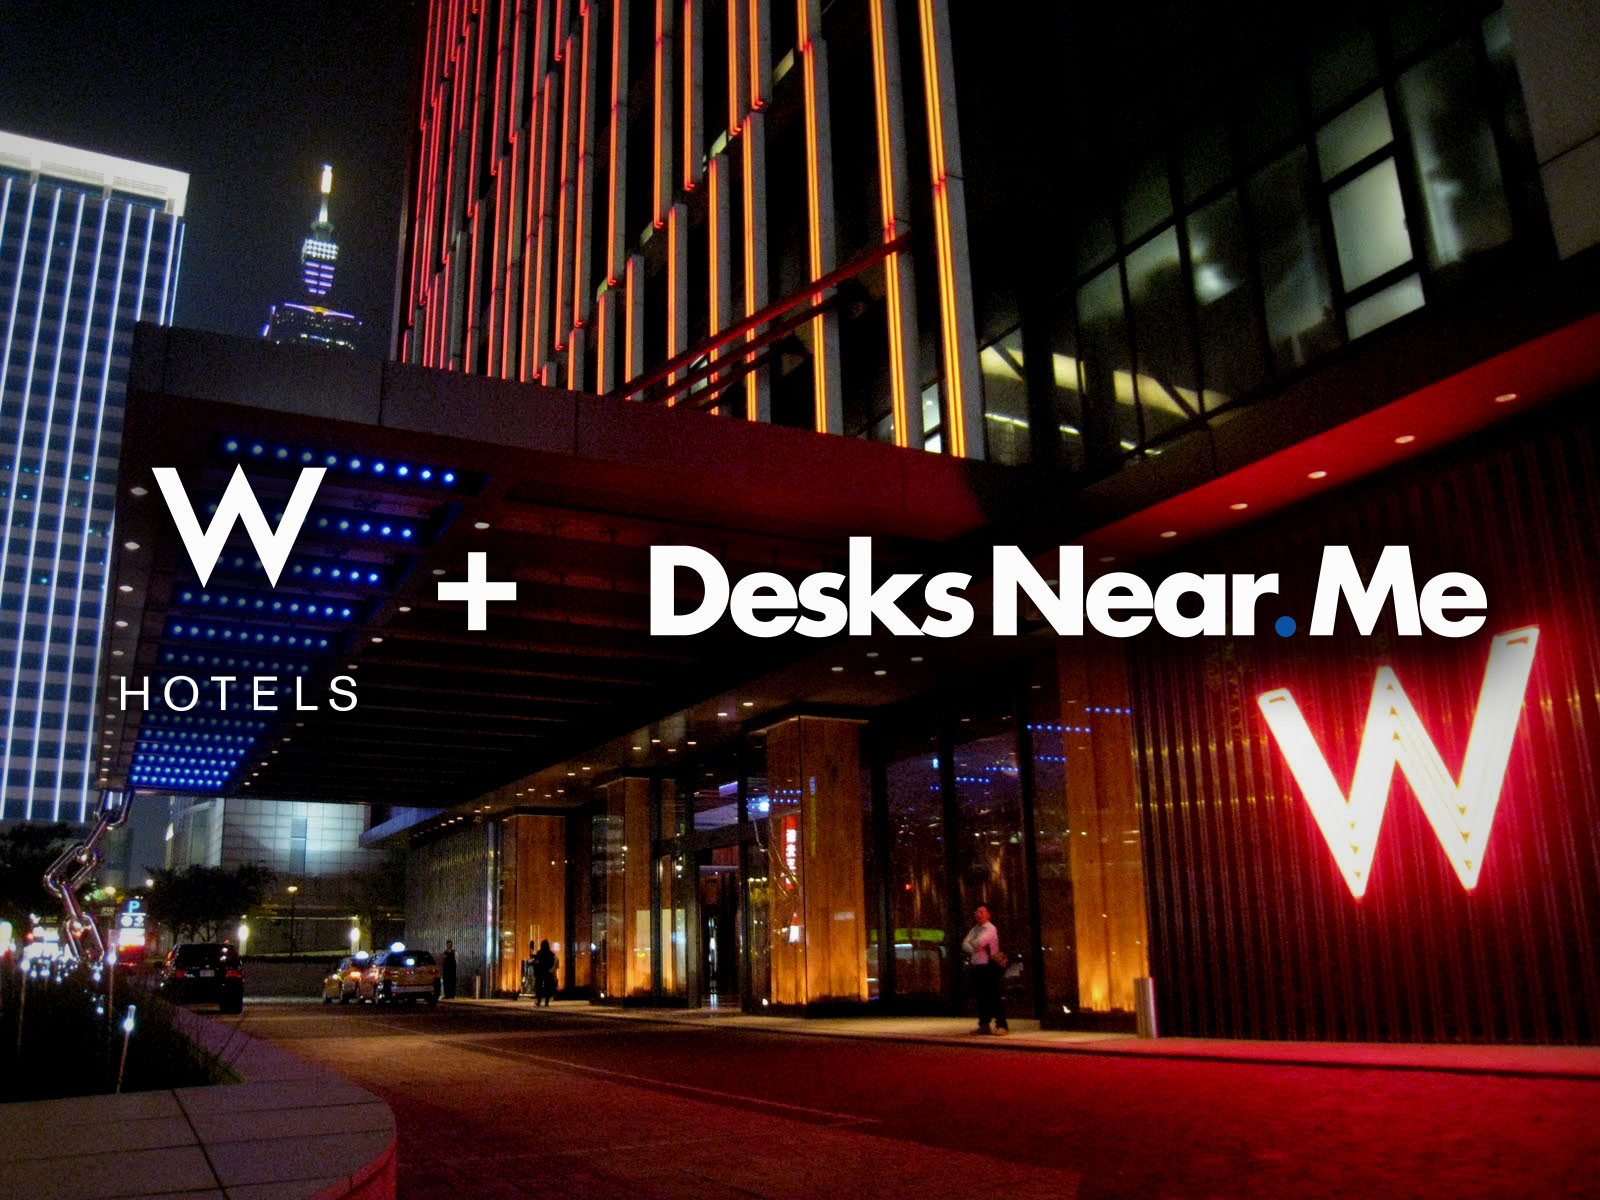
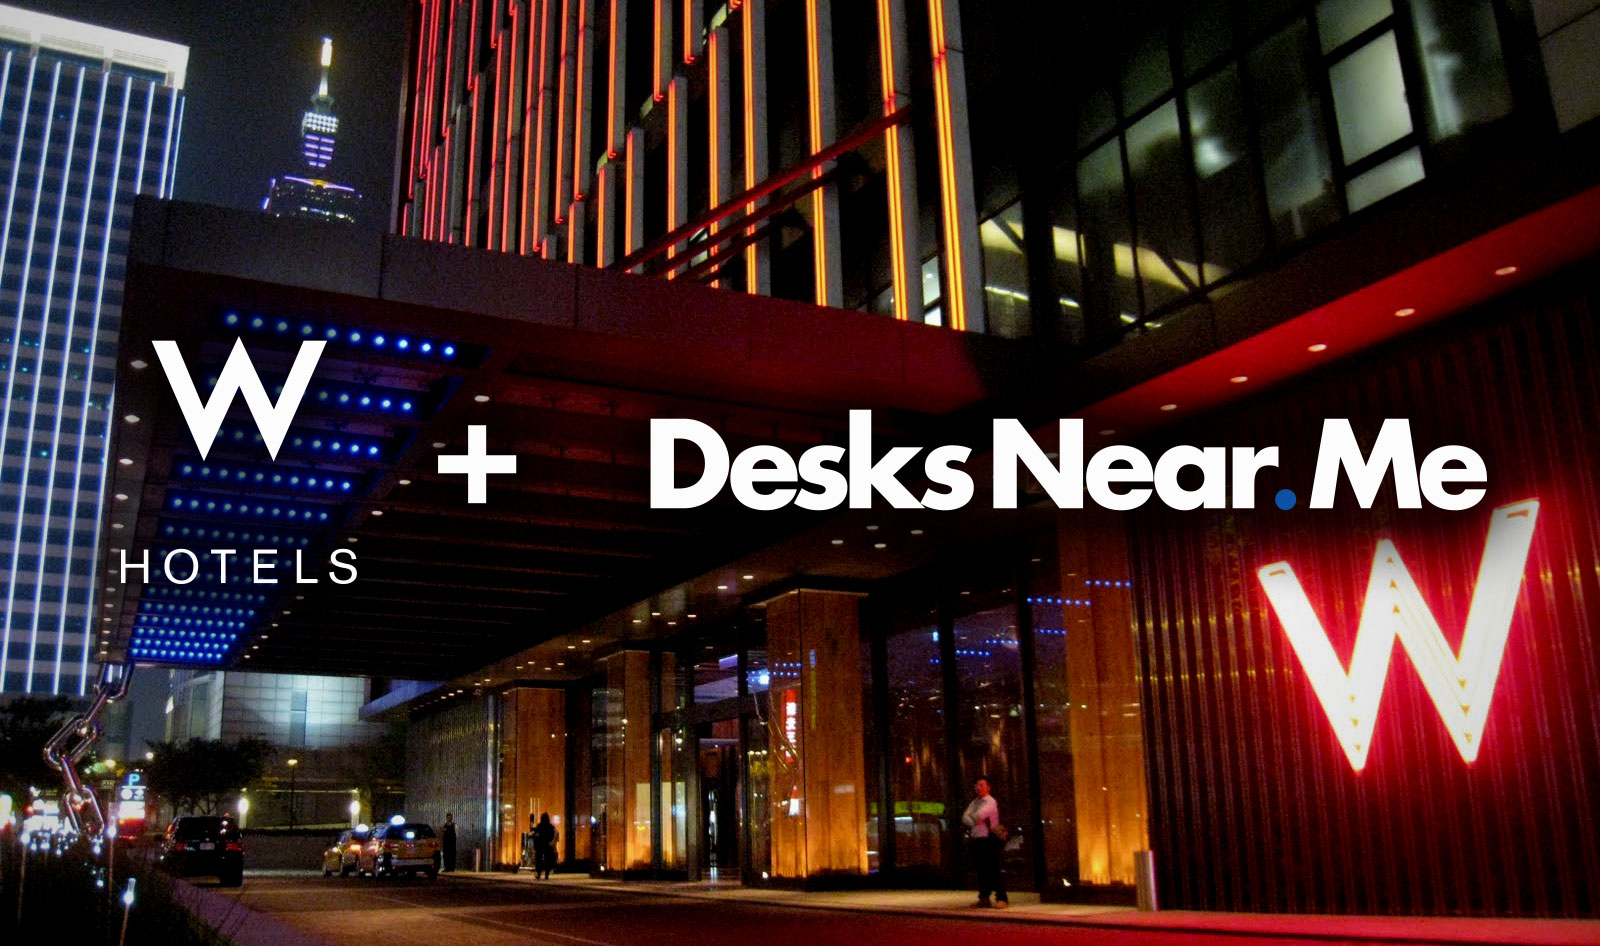
formatting, layout changes

diff --git a/app/assets/stylesheets/application.css.scss b/app/assets/stylesheets/application.css.scss
@@ -4,6 +4,7 @@
 @import "compass/reset";
 @import "chosen";
 @import "layout/*";
+@import "pages/*";
 @import "components/*";
 @import "bootstrap-overrides";
 @import "vendor/jquery-ui-1.8.23.custom";

diff --git a/config/routes.rb b/config/routes.rb
@@ -156,7 +156,8 @@ DesksnearMe::Application.routes.draw do
   match "/host-sign-up", to: 'pages#host_signup_1'
   match "/host-sign-up-2", to: 'pages#host_signup_2'
   match "/host-sign-up-3", to: 'pages#host_signup_3'
-  match "/W", to: 'pages#w_hotels'
+  match "/w-hotels-desks-near-me", to: 'pages#w_hotels'
+  match "/W-hotels-desks-near-me", to: 'pages#w_hotels'
   match "/support" => redirect("https://desksnearme.desk.com")
 
 end

diff --git a/app/controllers/pages_controller.rb b/app/controllers/pages_controller.rb
@@ -23,7 +23,7 @@ class PagesController < ApplicationController
     when "legal"
       "application"
     when "w_hotels"
-      "application"      
+      "w"      
     else
       false
     end
